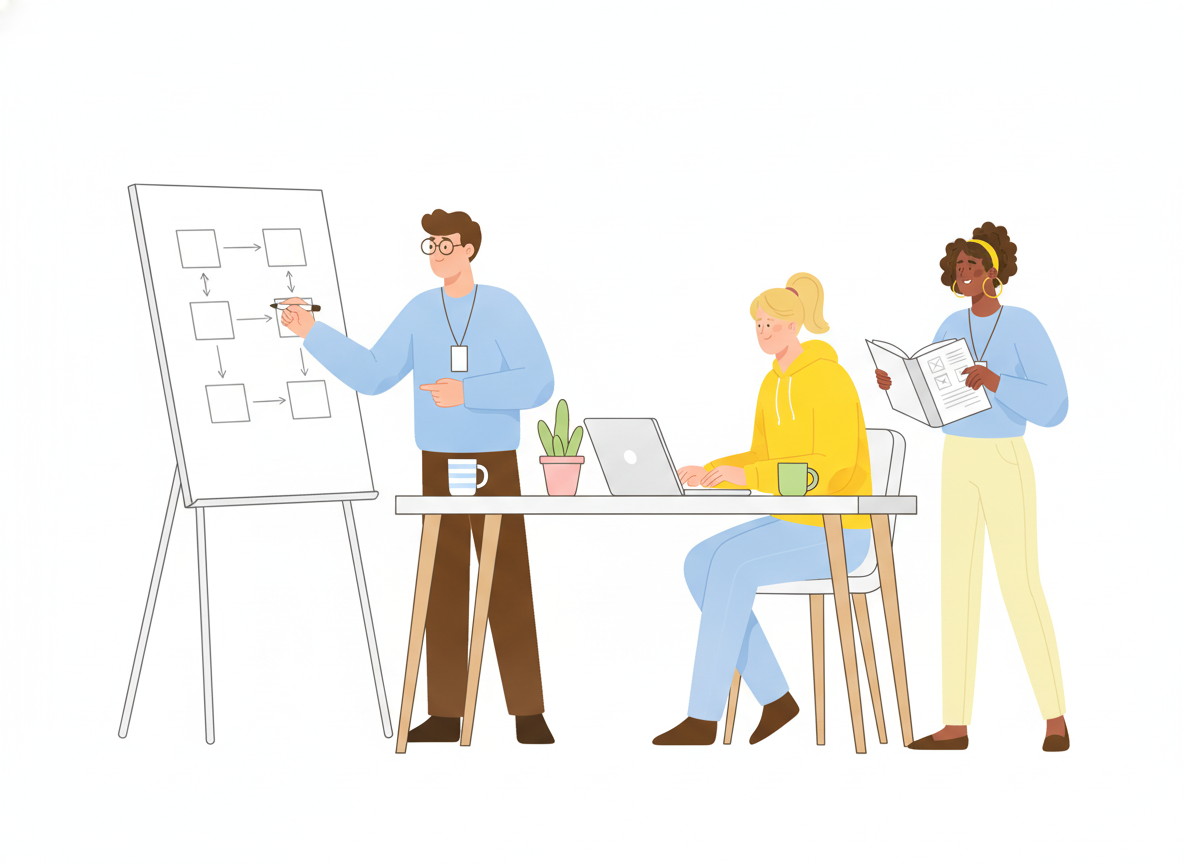
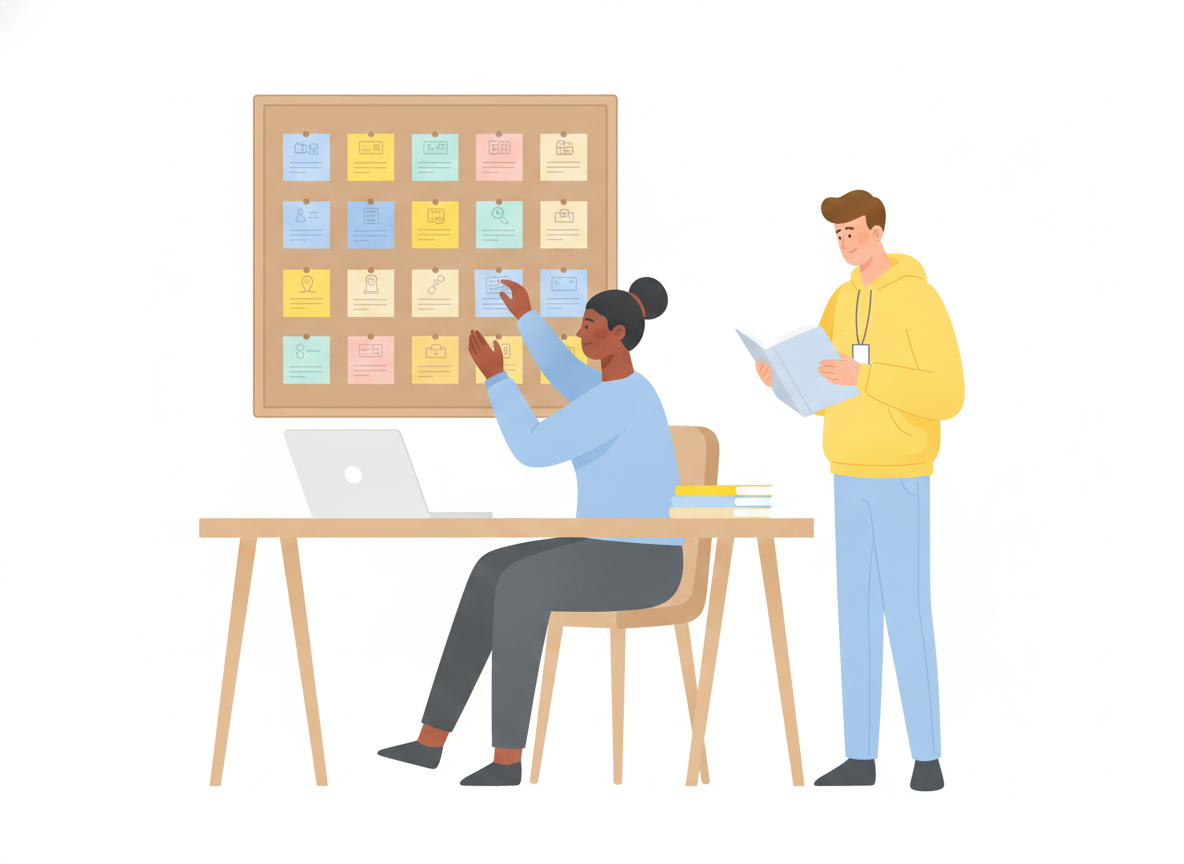
restore: revert accidental overwrite of 01-how-to-write-technical-documentation (live article assets)

diff --git a/articles/01-how-to-write-technical-documentation.html b/articles/01-how-to-write-technical-documentation.html
@@ -3,90 +3,154 @@
 <head>
 <meta charset="utf-8">
 <meta name="viewport" content="width=device-width, initial-scale=1">
-<title>How to Write Technical Documentation: A 7-Step Process</title>
-<meta name="description" content="Learn how to write technical documentation in 7 steps: know your reader, plan topics, draft for scanning, review, publish, and keep docs current.">
+<title>How to Write Technical Documentation: A Practical Guide</title>
+<meta name="description" content="Learn how to write technical documentation people actually read: structure topics, write for scanning, keep a style guide, and maintain docs that last.">
+<script type="application/ld+json">
+{
+  "@context": "https://schema.org",
+  "@type": "Article",
+  "headline": "How to Write Technical Documentation: A Practical Guide to Structure, Style, and Readability",
+  "description": "Learn how to write technical documentation people actually read: structure topics, write for scanning, keep a style guide, and maintain docs that last.",
+  "author": {"@type": "Organization", "name": "Sonat"},
+  "publisher": {"@type": "Organization", "name": "Sonat"},
+  "mainEntityOfPage": "https://sonat-com.github.io/html-reports/articles/01-how-to-write-technical-documentation.html"
+}
+</script>
 <style>
-*{box-sizing:border-box}
-body{margin:0;background:#ffffff;color:#1f2933;font-family:-apple-system,BlinkMacSystemFont,"Segoe UI",Roboto,Helvetica,Arial,sans-serif;font-size:18px;line-height:1.7;-webkit-font-smoothing:antialiased}
-main{max-width:720px;margin:0 auto;padding:48px 16px 80px}
-h1{font-size:2.25rem;line-height:1.2;margin:0 0 28px;letter-spacing:-0.02em;color:#102a43}
-h2{font-size:1.5rem;line-height:1.3;margin:48px 0 12px;color:#102a43;letter-spacing:-0.01em}
-h3{font-size:1.2rem;margin:32px 0 8px;color:#102a43}
-p{margin:0 0 18px}
-a{color:#1a6fd6;text-decoration:underline;text-underline-offset:3px}
-strong{color:#102a43}
-figure{margin:28px 0}
-img{display:block;max-width:100%;height:auto;border-radius:12px}
-ul,ol{margin:0 0 20px;padding-left:1.4em}
-li{margin:6px 0}
-ul.checklist{list-style:none;padding-left:0}
-ul.checklist li{position:relative;padding-left:1.9em}
-ul.checklist li::before{content:"";position:absolute;left:0;top:.35em;width:1.05em;height:1.05em;border:2px solid #1a6fd6;border-radius:4px}
-code{background:#f0f4f8;padding:2px 6px;border-radius:4px;font-size:.9em}
-.table-wrap{overflow-x:auto;margin:0 0 24px}
-table{width:100%;border-collapse:collapse;font-size:.95rem}
-th,td{text-align:left;padding:10px 12px;border-bottom:1px solid #e4e7eb;vertical-align:top}
-th{background:#f5f8fb;color:#102a43}
-@media (max-width:600px){body{font-size:17px}h1{font-size:1.8rem}h2{font-size:1.3rem}main{padding-top:32px}}
+  :root { --ink:#1f2733; --muted:#5b6675; --accent:#2f6df6; --line:#e7ebf0; --bg:#ffffff; }
+  * { box-sizing: border-box; }
+  html { -webkit-text-size-adjust: 100%; }
+  body {
+    margin: 0;
+    background: var(--bg);
+    color: var(--ink);
+    font-family: -apple-system, BlinkMacSystemFont, "Segoe UI", Roboto, Helvetica, Arial, sans-serif;
+    font-size: 18px;
+    line-height: 1.7;
+  }
+  .wrap { max-width: 720px; margin: 0 auto; padding: 48px 22px 72px; }
+  header .eyebrow {
+    text-transform: uppercase; letter-spacing: .08em; font-size: 13px;
+    font-weight: 700; color: var(--accent); margin: 0 0 14px;
+  }
+  h1 {
+    font-size: clamp(28px, 5vw, 40px); line-height: 1.18; letter-spacing: -0.02em;
+    margin: 0 0 8px; font-weight: 800;
+  }
+  h2 {
+    font-size: clamp(22px, 3.4vw, 27px); line-height: 1.25; letter-spacing: -0.01em;
+    margin: 46px 0 12px; font-weight: 750; font-weight: 700;
+  }
+  p { margin: 0 0 18px; }
+  ul { margin: 0 0 18px; padding-left: 1.25em; }
+  li { margin: 0 0 9px; }
+  strong { font-weight: 700; }
+  a { color: var(--accent); text-decoration: none; border-bottom: 1px solid rgba(47,109,246,.35); }
+  a:hover { border-bottom-color: var(--accent); }
+  figure { margin: 26px 0; }
+  img { max-width: 100%; height: auto; display: block; border-radius: 14px; }
+  .hero img { background: #f6f8fb; }
+  .lede { font-size: 20px; color: var(--muted); }
+  hr { border: 0; border-top: 1px solid var(--line); margin: 40px 0; }
+  @media (max-width: 480px) { body { font-size: 17px; } .wrap { padding: 32px 18px 56px; } }
 </style>
 </head>
 <body>
-<main>
-<article>
-<h1>How to Write Technical Documentation: A 7-Step Process</h1>
-<figure><img src="images/01-how-to-write-technical-documentation-hero.png" alt="A small team gathered around a table, one person sketching a document outline on a whiteboard while another takes notes on a laptop"></figure>
-<p>You know your product inside out. Your readers don't. That gap is why good technical documentation is hard to write, and why it is worth getting right. Clear docs answer questions before they become support tickets and save your team from explaining the same thing over and over.</p>
-<p>This guide walks through how to write technical documentation in seven practical steps, from knowing your reader to keeping the docs current. You don't need to be a professional technical writer to follow it. You need a clear process.</p>
-<p><strong>In short:</strong> to write technical documentation, define who the reader is and what they need to do, choose the right type of document, outline it as small single-purpose topics, draft for scanning in plain language, review with experts and real users, publish where people will look, and update it every time the product changes.</p>
-<h2>What is technical documentation?</h2>
-<p>Technical documentation is any content that helps people understand, use, set up, or fix a product or process. That covers user manuals, help center articles, setup guides, troubleshooting pages, internal runbooks, and reference material such as settings or specifications.</p>
-<p>Each one serves a reader with a goal: finish a task, understand a concept, or look up a fact. Every step below exists to serve that goal.</p>
-<h2>The technical writing process at a glance</h2>
-<p>Most guides to the stages of technical writing agree on the same core flow. Here are the seven technical writing process steps this article covers:</p>
-<ol><li>Define your audience and their goal</li><li>Choose the right type of document</li><li>Plan the structure as topics</li><li>Draft for scanning, not reading</li><li>Review with experts and real users</li><li>Publish where readers will look</li><li>Maintain and improve it over time</li></ol>
-<p>The process is not strictly linear. Reviews often send you back to the draft, and real-world feedback often changes the structure. That is normal.</p>
-<h2>Step 1: Define your audience and their goal</h2>
-<p>Start with the reader, not the product. Google's technical writing course puts it simply: make sure your document provides the information your audience needs but doesn't already have.</p>
-<p>To do that, answer three questions before you write a word:</p>
-<ul><li><strong>Who is reading?</strong> A new customer, an experienced admin, a support agent, a new hire?</li><li><strong>What do they already know?</strong> Familiarity with the product matters as much as job title.</li><li><strong>What do they need to do after reading?</strong> Finish a setup, solve a problem, make a decision?</li></ul>
-<p>Watch out for the <em>curse of knowledge</em>. When you know a subject well, it is easy to forget what a beginner doesn't know. Steps get skipped. Jargon goes unexplained. As a rule, the wider your audience, the more you need to explain.</p>
-<h2>Step 2: Choose the right type of document</h2>
-<p>Not every question needs the same kind of page. A widely used documentation framework, Diátaxis, groups technical content into four types, each matching a different reader need:</p>
-<div class="table-wrap"><table><thead><tr><th>Type</th><th>The reader wants to…</th><th>Example</th></tr></thead><tbody><tr><td><strong>Tutorial</strong></td><td>learn by doing</td><td>"Create your first project"</td></tr><tr><td><strong>How-to guide</strong></td><td>reach a specific result</td><td>"Export a report as PDF"</td></tr><tr><td><strong>Reference</strong></td><td>look up a fact</td><td>"Account settings explained"</td></tr><tr><td><strong>Explanation</strong></td><td>understand why</td><td>"How permissions work"</td></tr></tbody></table></div>
-<p>A common mistake is mixing them, such as a how-to guide that wanders into long background explanation. Keep each page to one job and link to the others.</p>
-<h2>Step 3: Plan the structure as topics</h2>
-<p>Before you draft, outline. A strong approach here is topic based writing: break the documentation into small, self-contained topics, each with a clear title. The DITA standard, long used in technical communication, describes a topic as a unit of information short enough to be specific to a single subject or answer a single question, but long enough to make sense on its own.</p>
-<p>Topics make documentation easier to:</p>
-<ul><li><strong>Navigate</strong>, because each topic answers one question</li><li><strong>Update</strong>, because a product change touches one topic, not a 40-page document</li><li><strong>Reuse</strong>, because the same topic can appear in several manuals or menus</li></ul>
-<p>A practical way to start: list the questions your readers ask most, turn each into a topic title, then group the titles into sections. That list becomes your menu.</p>
-<figure><img src="images/01-how-to-write-technical-documentation-inline-1.png" alt="A person arranging sticky notes into columns on a wall while a colleague points at one and suggests where it should go"></figure>
-<h2>Step 4: Draft for scanning, not reading</h2>
-<p>Most people don't read documentation word by word. They scan. In an eyetracking study of 232 users, Nielsen Norman Group found that people often scan web pages in a rough F-shaped pattern: across the top, across again a little lower, then down the left side.</p>
-<p>That has direct consequences for how you write:</p>
-<ul><li><strong>Put the most important information first.</strong> State the outcome or answer in the first lines of each topic.</li><li><strong>Start headings, paragraphs, and list items with words that carry meaning.</strong> Readers notice the first words of a line far more than the rest.</li><li><strong>Write one idea per sentence.</strong> Short sentences are easier to read, translate, and maintain.</li><li><strong>Use numbered lists for steps</strong> and bulleted lists for options. If a long sentence keeps saying "or", it probably wants to be a list.</li><li><strong>Write in plain language.</strong> Choose simple words and avoid idioms and slang, which confuse international readers and translation tools. In the US, the Plain Writing Act of 2010 made writing for a specific audience a requirement for government content. It is a good standard for everyone else too.</li></ul>
-<p>For procedures, use a consistent pattern: one action per step, the action first, then the result the reader should see. For more on this, see our <a href="https://sonat.com/@sonat/sonat-articles/01-technical-writing-examples">technical writing examples with before-and-after rewrites</a>.</p>
-<p><strong>A note on AI.</strong> AI tools are now a normal part of many documentation workflows. In a 2026 survey of around 400 documentation professionals, a large majority reported using AI regularly or occasionally. AI can speed up a first draft or a rewrite, but it doesn't know your users or your product's edge cases. Treat AI output as a draft that still needs a subject expert and an editor.</p>
-<h2>Step 5: Review with experts and real users</h2>
-<p>Every piece of technical documentation needs two kinds of review:</p>
-<ol><li><strong>Accuracy review.</strong> A subject matter expert checks that every step, setting, and screenshot is correct for the current version.</li><li><strong>Clarity review.</strong> Someone close to the real audience follows the instructions exactly as written. If they get stuck, the doc needs work, not the reader.</li></ol>
-<p>Then edit for consistency in terminology, capitalization, and tone. A shared <a href="https://sonat.com/@sonat/sonat-articles/01-documentation-style-guide">documentation style guide</a> settles most of these questions once instead of in every review, and a simple <a href="https://sonat.com/@sonat/sonat-articles/01-technical-editing">technical editing checklist</a> keeps reviews fast and repeatable.</p>
-<p>If your docs cover regulated topics or customer commitments, make the review formal. In Sonat, approval workflows let you route a topic to the right reviewers before it goes live, so nothing gets published by accident.</p>
-<h2>Step 6: Publish where readers will look</h2>
-<p>Documentation only works if people can find it. That means publishing it where your readers already are, and making it easy to search:</p>
-<ul><li><strong>Make it searchable.</strong> Clear topic titles and good headings help both your site search and search engines.</li><li><strong>Make it readable on any device.</strong> Some readers will open your docs on a phone, right next to the product.</li><li><strong>Use your own domain.</strong> A help center at <code>docs.yourcompany.com</code> builds trust and keeps readers in your brand.</li><li><strong>Check readability before publishing.</strong> A <a href="https://sonat.com/@sonat/sonat-articles/01-readability-score">readability score</a> is a quick signal that a topic may be too dense for its audience.</li></ul>
-<p>With Sonat, you can write in Google Docs or the built-in editor and publish to a mobile-friendly, searchable help center on your own domain, without any technical setup.</p>
-<h2>Step 7: Maintain and improve it over time</h2>
-<p>Technical documentation is never finished. Every product release can make a page wrong, and outdated docs mislead the readers who trust them.</p>
-<p>Build maintenance into the process:</p>
-<ul><li><strong>Update docs as part of every release</strong>, not after it. Add "update the docs" to the release checklist.</li><li><strong>Assign an owner to each section</strong> so someone is responsible for keeping it current.</li><li><strong>Keep a version history</strong> so you can see what changed and restore earlier versions.</li><li><strong>Listen to readers.</strong> Feedback on each topic shows you exactly which pages confuse people.</li><li><strong>Review regularly.</strong> Set a schedule to check older topics, especially those tied to fast-changing features.</li></ul>
-<p>This is where a single source of truth pays off: with every topic in one version-tracked place, keeping docs current becomes routine instead of a cleanup project.</p>
-<h2>Technical documentation best practices: a quick checklist</h2>
-<p>Before you hit publish, check each topic against this list:</p>
-<ul class="checklist"><li>It is written for one clearly defined reader</li><li>It does one job: teach, guide, explain, or serve as reference</li><li>The title says exactly what the topic covers</li><li>The answer or outcome comes first</li><li>Steps are numbered, with one action per step</li><li>Sentences are short and jargon is explained</li><li>An expert has checked it for accuracy</li><li>A real user has followed it without help</li><li>It has an owner and a review date</li></ul>
-<h2>Conclusion</h2>
-<p>Learning how to write technical documentation is less about talent and more about process. Know your reader, pick the right format, write focused topics for people who scan, review with experts and users, and keep everything current.</p>
-<p>Start small. Pick the one question your users ask most, and write a single great topic that answers it. Then do it again. If you want a simple place to write, organize, and publish those topics, you can <a href="https://sonat.com/">try Sonat for free</a>.</p>
+<article class="wrap">
+  <figure class="hero">
+    <img src="images/01-how-to-write-technical-documentation-hero.png" alt="A technical writer at a desk organizing labeled cards into neat columns on a board while a colleague reads an open manual nearby">
+  </figure>
+
+  <header>
+    <p class="eyebrow">Technical Writing</p>
+    <h1>How to Write Technical Documentation People Actually Read</h1>
+  </header>
+
+  <p class="lede">You've been asked to document a product, a process, or a system — and the blank page is staring back. You know the material cold, but turning what's in your head into something a reader can follow is a different skill entirely. Good documentation isn't about writing more; it's about writing so the right answer is easy to find and easy to act on.</p>
+
+  <p>This guide walks through how to write technical documentation from first outline to published page: how to structure it, how to keep it readable, and how to maintain it so it stays useful. No jargon, no theory for its own sake — just the practices that separate docs people rely on from docs they abandon.</p>
+
+  <h2>What technical documentation is (and what makes it "good")</h2>
+  <p>Technical documentation is any content that explains how something works or how to use it — user manuals, help centers, API references, runbooks, policies, and onboarding guides. Good technical documentation lets a reader complete a task or answer a question <strong>without asking a human for help.</strong> That's the whole test. If your docs deflect the support ticket, they worked.</p>
+  <p>Everything below serves that single goal. A practice only counts as a best practice if it makes the answer faster to find or easier to trust.</p>
+
+  <h2>Start with the reader, not the feature</h2>
+  <p>The most common documentation mistake is writing from the author's point of view — organized by how the product is built rather than by what the reader is trying to do. Flip it.</p>
+  <p>Before you write a word, answer three questions:</p>
+  <ul>
+    <li><strong>Who is reading this?</strong> A first-time user and an experienced admin need different pages, not the same page with more caveats.</li>
+    <li><strong>What are they trying to accomplish?</strong> Document tasks ("reset a password"), not features ("the credentials module").</li>
+    <li><strong>What do they already know?</strong> Assume less than you think. Federal plain-language guidance is blunt about this: content has to be written for its specific audience, and the only way to know it works is to test whether that audience actually understands it.</li>
+  </ul>
+  <p>Write the page title as the reader's goal. "How to invite a teammate" beats "Team management settings" every time, because it matches the words a reader would actually search for.</p>
+
+  <h2>Structure documentation in small, self-contained topics</h2>
+  <p>Structure is where most documentation quietly fails. Long, scrolling pages that cover ten things force readers to hunt. The fix is <strong>modular, topic-based structure</strong>: one topic answers one question and stands on its own.</p>
+
+  <figure>
+    <img src="images/01-how-to-write-technical-documentation-structure.png" alt="Two colleagues sorting a stack of papers into small labeled topic folders arranged into sections on a shelf">
+  </figure>
+
+  <p>A reliable technical documentation structure looks like this:</p>
+  <ul>
+    <li><strong>One topic, one job.</strong> Each page covers a single task or concept. If a heading needs the word "and," it's probably two topics.</li>
+    <li><strong>Lead with the answer.</strong> Put the conclusion or the first step at the top and the background below — the "inverted pyramid" that news writers use. Readers who already know the context can act immediately; those who need more can keep reading.</li>
+    <li><strong>Group topics into a shallow menu.</strong> A clear two-level menu (section → topic) beats a five-level tree nobody can navigate. Aim for breadth over depth.</li>
+    <li><strong>Cross-link related topics</strong> inline, where the reader hits the need — not in a pile of links at the bottom.</li>
+  </ul>
+  <p>Modular topics also age better. When one step changes, you edit one small topic instead of surgically editing a 3,000-word mega-page — and, increasingly, well-structured topics are what AI search tools can retrieve and answer from cleanly.</p>
+
+  <h2>Write for scanning, because nobody reads top to bottom</h2>
+  <p>Here's the uncomfortable truth backed by decades of usability research: people don't read documentation, they scan it. In Nielsen Norman Group's classic eye-tracking work, <strong>79% of users scanned any new page they landed on, and only 16% read word by word.</strong> Rewriting the same content to be concise improved measured usability by 58%; making it scannable improved it by 47%; doing both together improved it by 124%.</p>
+  <p>So write for the scanner:</p>
+  <ul>
+    <li><strong>Front-load keywords</strong> in headings and the first few words of each paragraph.</li>
+    <li><strong>Keep paragraphs to one idea</strong> and roughly three to five lines.</li>
+    <li><strong>Use bulleted lists</strong> when items are parallel and there are more than a couple.</li>
+    <li><strong>Bold the words that carry meaning</strong> — sparingly, so the emphasis still means something.</li>
+    <li><strong>Cut ruthlessly.</strong> If a sentence doesn't help the reader act, delete it.</li>
+  </ul>
+  <p>A quick objective check helps here: run a draft through a <strong>readability score</strong> like Flesch Reading Ease and aim for plain, everyday phrasing. The score isn't a grade to chase for its own sake — it's a smoke alarm for sentences that got too long or too dense.</p>
+
+  <h2>Keep a lightweight style guide</h2>
+  <p>Consistency is what makes a set of pages feel like one trustworthy source instead of a dozen voices. You don't need a 60-page manual — a one-page style guide covering a few decisions goes a long way. Most well-run documentation teams settle on a handful of habits worth borrowing:</p>
+  <ul>
+    <li><strong>Second person and active voice.</strong> "Select <strong>Save</strong>," not "the Save button should be selected." It's shorter and tells the reader exactly who does what.</li>
+    <li><strong>Present tense.</strong> "The page opens," not "the page will open."</li>
+    <li><strong>Consistent terms.</strong> Pick one word for each thing — "sign in" or "log in," never both — and stick to it.</li>
+    <li><strong>Sentence-case headings and consistent formatting</strong> for buttons, menus, and code.</li>
+  </ul>
+  <p>Write these choices down once. New contributors follow the guide instead of guessing, and your documentation reads as one voice even when five people write it.</p>
+
+  <h2>Show, don't just tell</h2>
+  <p>Some things are faster to see than to read. Screenshots, short diagrams, and annotated images cut the number of words a reader has to parse — as long as they clarify rather than decorate. A good visual sits right next to the step it illustrates, carries descriptive alt text for accessibility and search, and gets updated when the interface does. A stale screenshot is worse than none, because it quietly tells the reader your docs can't be trusted.</p>
+
+  <h2>Make it maintainable, not just correct today</h2>
+  <p>Documentation isn't a one-time deliverable; it's a living asset that decays the moment the product moves on. The best-written page is worthless six months later if nobody can tell it's out of date. Build maintenance in from the start:</p>
+  <ul>
+    <li><strong>Keep a single source of truth.</strong> One canonical topic per subject, so there's no second copy drifting out of sync.</li>
+    <li><strong>Track versions.</strong> Being able to see what changed — and restore a previous version — turns "who edited this?" from a mystery into a click.</li>
+    <li><strong>Review on a schedule and after every release.</strong> Tie doc updates to your release process so they ship together, not months apart.</li>
+    <li><strong>Plan for translation early.</strong> If you serve a global audience, clean modular topics are far cheaper to translate and keep in sync than sprawling pages.</li>
+  </ul>
+  <p>This is exactly the model a purpose-built documentation platform like <a href="https://sonat.com">Sonat</a> is designed around — structured topics, a built-in readability guide, an unlimited version archive, and one-click publishing — so authors can focus on the writing while the structure, search, and versioning are handled for them.</p>
+
+  <h2>A simple workflow to write technical documentation</h2>
+  <p>Pulling it together, here's a repeatable loop you can run for any new page:</p>
+  <ul>
+    <li><strong>1. Define the reader and the task</strong> in one sentence each.</li>
+    <li><strong>2. Draft the outline as headings</strong> — one topic per heading, phrased as the reader's goal.</li>
+    <li><strong>3. Write the steps or explanation</strong>, answer-first, in plain language.</li>
+    <li><strong>4. Add visuals</strong> where a picture beats a paragraph.</li>
+    <li><strong>5. Edit for scanning</strong> — cut, tighten, check the readability score.</li>
+    <li><strong>6. Run it past a real reader</strong> who matches your audience, and fix what trips them up.</li>
+    <li><strong>7. Publish, then schedule the next review.</strong></li>
+  </ul>
+  <p>Follow that loop and each page gets easier to write, because the structure does the heavy lifting.</p>
+
+  <h2>The shift that matters</h2>
+  <p>Writing technical documentation well isn't about mastering prose — it's about respecting how people actually use docs. They arrive with a task, they scan for the answer, and they leave the moment they're unblocked. Structure your content into small self-contained topics, write it to be scanned, keep the style consistent, and maintain it like the living asset it is, and you'll write documentation people trust enough to rely on instead of routing around.</p>
+  <p>Start with your next page. Pick one task your readers keep asking about, write the single topic that answers it, and publish — then let the workflow above carry the rest.</p>
 </article>
-</main>
 </body>
 </html>
